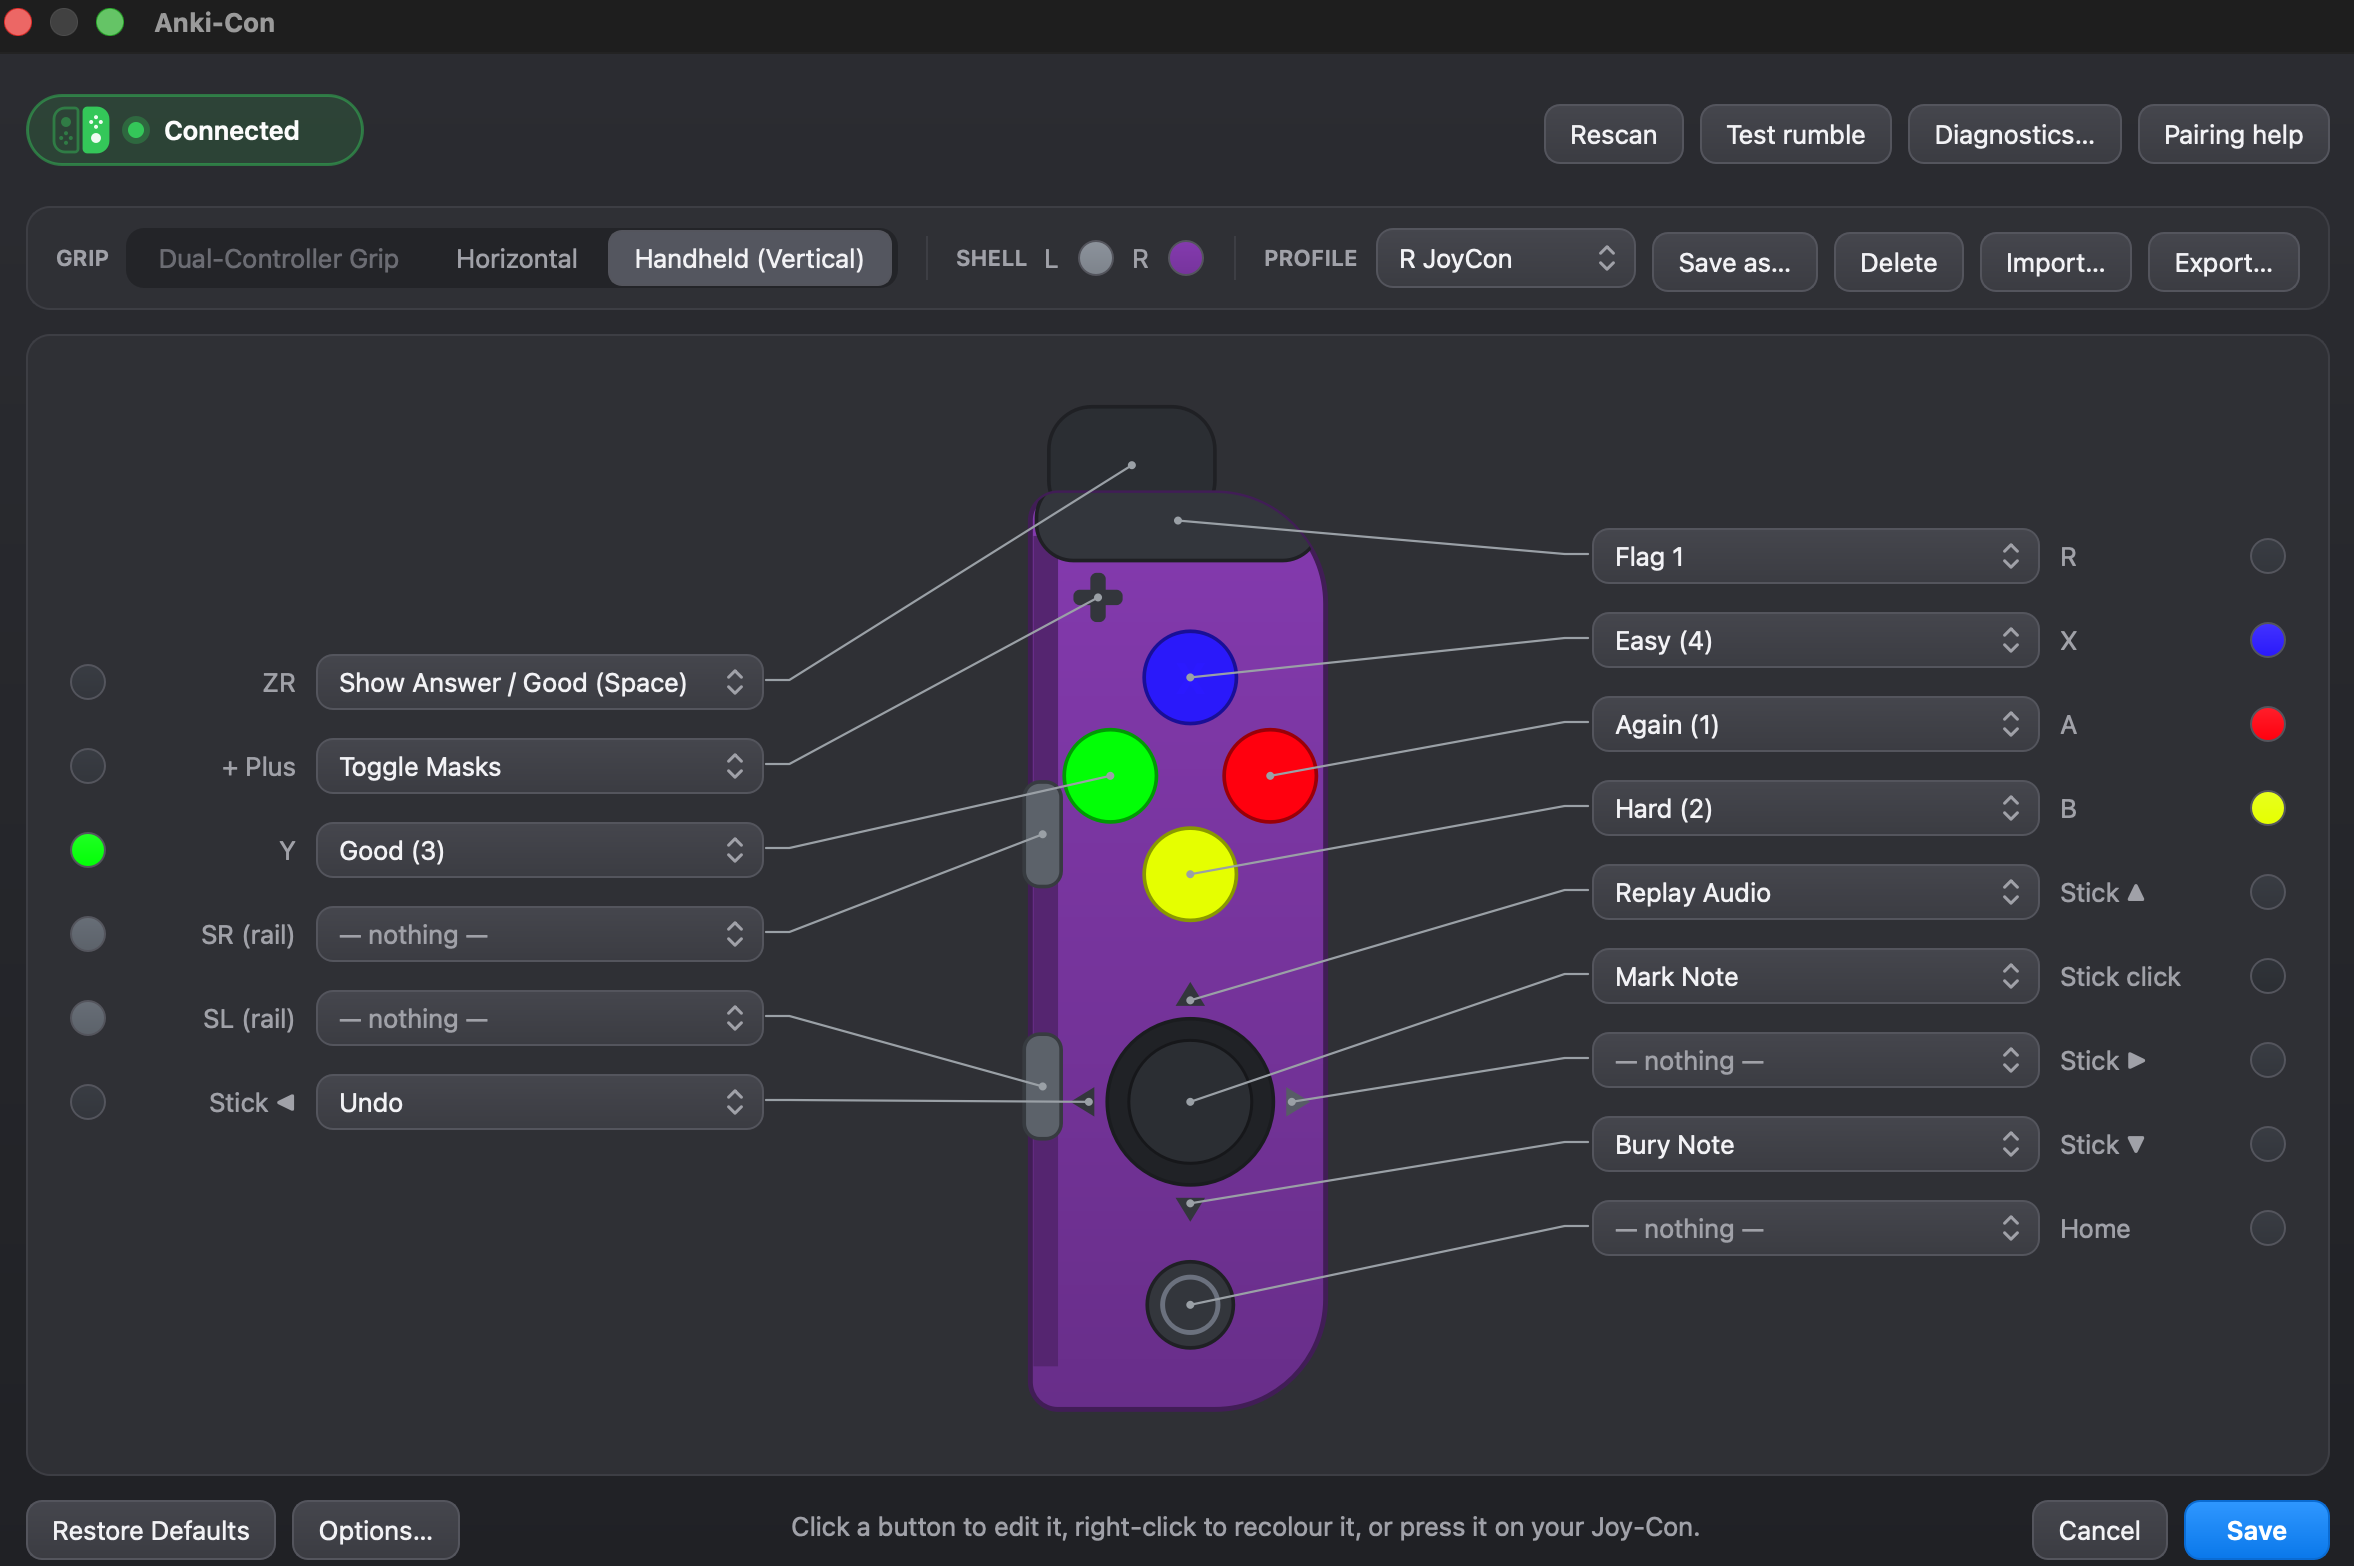
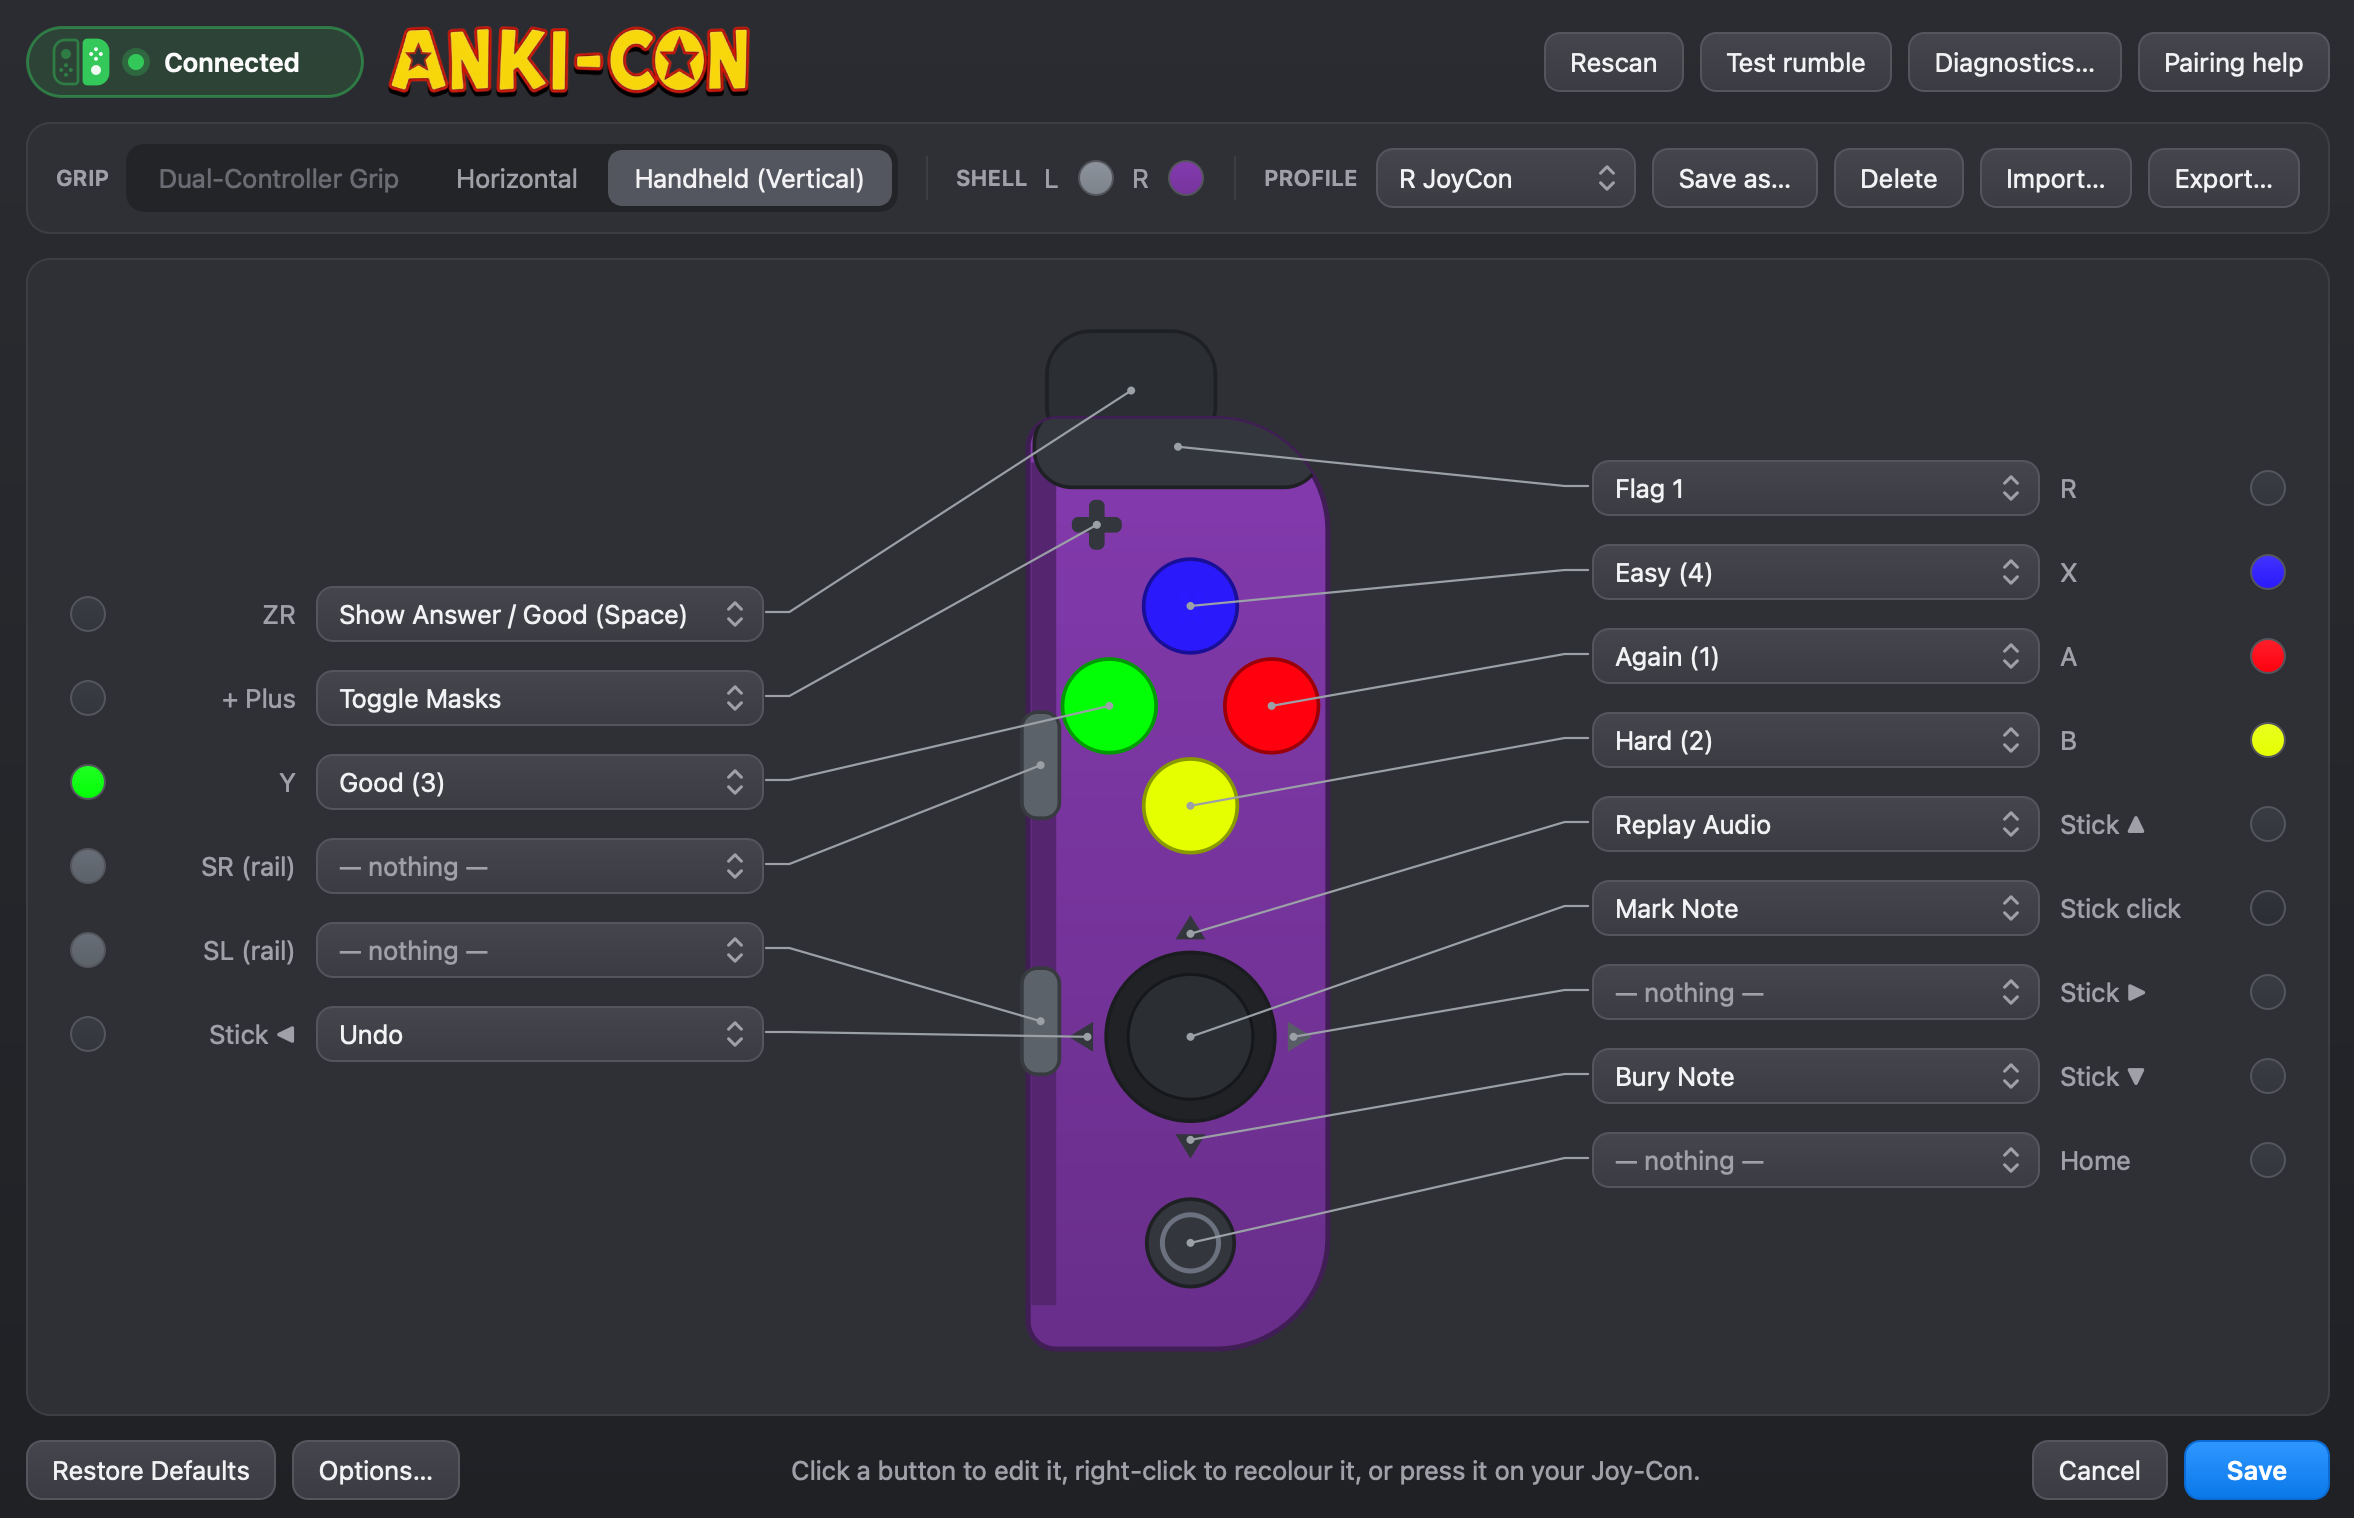
Show the grip screenshots side by side in the README
Retake both with the new logo.

diff --git a/README.md b/README.md
@@ -116,15 +116,9 @@ Each grip has its own mapping, and Anki-Con picks one based on what's connected.
 With one Joy-Con connected, you choose Horizontal or Handheld. With none, you
 can edit all three.
 
-<p align="center">
-  <b>Handheld (Vertical)</b><br>
-  <img src="docs/grip-handheld.png" alt="One purple Joy-Con mapped upright in the Handheld (Vertical) grip" width="760">
-</p>
-
-<p align="center">
-  <b>Horizontal</b><br>
-  <img src="docs/grip-horizontal.png" alt="One purple Joy-Con mapped sideways in the Horizontal grip" width="760">
-</p>
+| Handheld (Vertical) | Horizontal |
+|---|---|
+| ![One purple Joy-Con mapped upright in the Handheld (Vertical) grip](docs/grip-handheld.png) | ![One purple Joy-Con mapped sideways in the Horizontal grip](docs/grip-horizontal.png) |
 
 ## Default mapping
 
